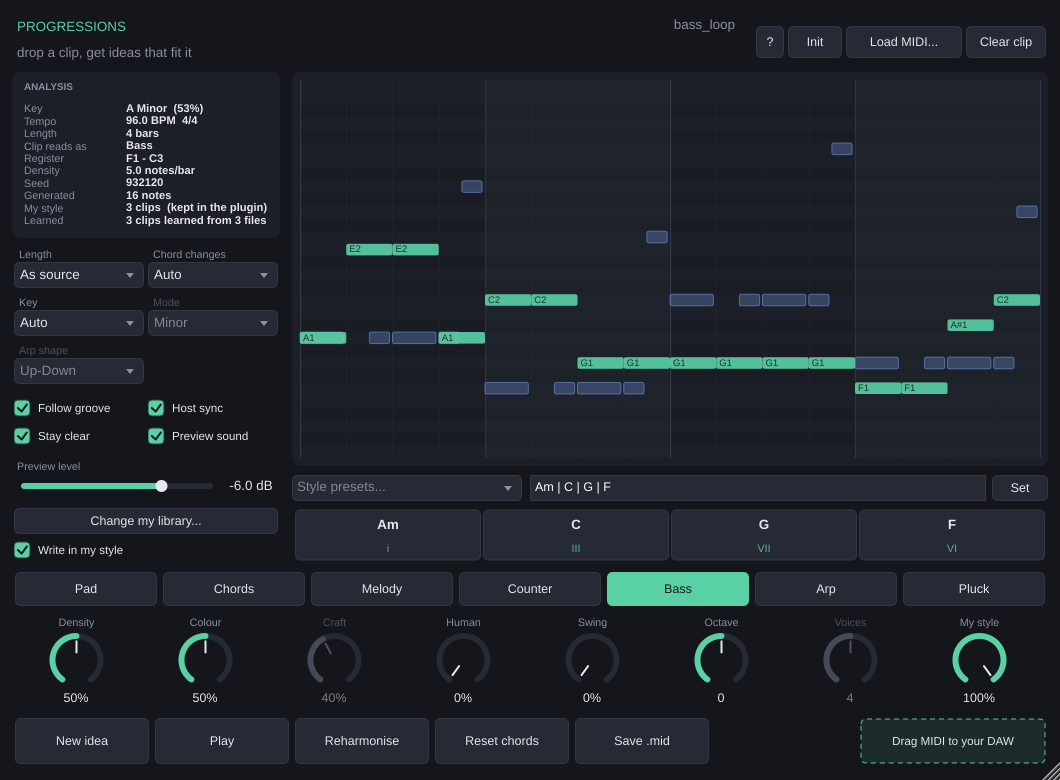
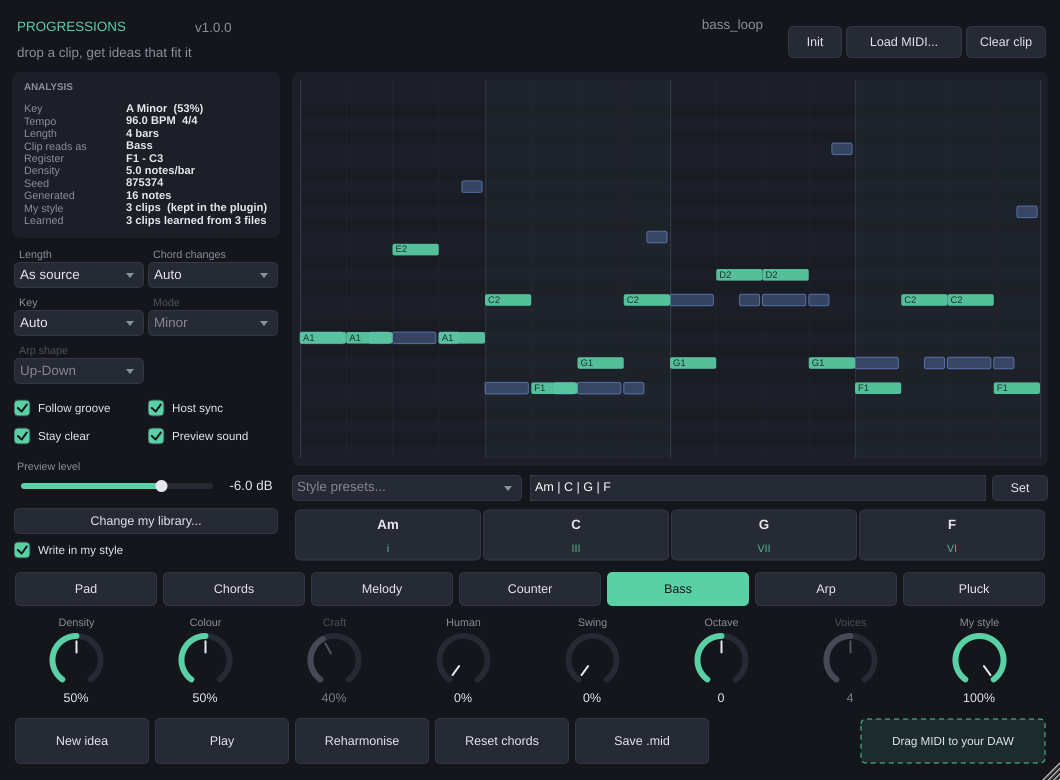
Twelve genres of preset, a discreet about, and a click that works
The about button did nothing: reverting a temporary "show it on startup"
experiment flipped the setVisible inside the click handler too, so it hid an
already hidden panel. The button is gone entirely - the version now sits
beside the name in the header, small and dim, and the header block opens the
card. The smoke test clicks it, because a handler that quietly does nothing
is exactly the kind of break nothing else notices.

Init now takes the preset box with it. It is the only control that is not an
automatable parameter, so nothing was resetting it: after Init the box still
named a preset that was no longer in force. It clears whenever no written
progression is in force, which covers Reset chords too.

Sixteen presets across seven new genres, all electronic: Progressive House,
Melodic Techno, Techno, Trance, Drum & Bass, UK Garage and Downtempo. Each
one is a shape the genre actually uses rather than a rotation of the four
chords already there - a Phrygian flat second, a minor two-five over harmonic
minor, dominant sevenths on the Dorian four, major sevenths a fourth apart.

A single-chord techno preset was written and dropped: the preset length comes
from the chord count, so it produced a one-bar loop.

Claude-Session: https://claude.ai/code/session_01TdYkkwWqjXnyGki7XjySvK

diff --git a/core/src/Presets.cpp b/core/src/Presets.cpp
@@ -50,6 +50,52 @@ const std::vector<ProgressionPreset>& progressionPresets()
         { "afro-dorian", "Dorian groove", "Afro House", "i7 | IV | i7 | VII", ScaleType::Dorian,
           "Modal and repetitive - let the percussion carry it." },
 
+        // ---- Progressive House -------------------------------------------------
+        { "prog-plateau", "Long plateau", "Progressive House", "i | VII | III | VI", ScaleType::NaturalMinor,
+          "Rotates without ever cadencing. Give each chord two bars and let it ride." },
+        { "prog-suspended", "Suspended build", "Progressive House", "isus4 | i | VIIsus4 | VII", ScaleType::NaturalMinor,
+          "Each suspension resolves late; that delay is where the lift comes from." },
+        { "prog-lydian", "Lydian float", "Progressive House", "Imaj7 | II7 | Imaj7 | vi7", ScaleType::Lydian,
+          "The raised fourth keeps it weightless - good under a long, slow arpeggio." },
+
+        // ---- Melodic Techno ------------------------------------------------------
+        { "mtechno-two", "Two-chord dark", "Melodic Techno", "i | VI", ScaleType::NaturalMinor,
+          "Two chords, eight bars each. The tension is in the arrangement, not the harmony." },
+        { "mtechno-phrygian", "Phrygian pull", "Melodic Techno", "i | II", ScaleType::Phrygian,
+          "The flat second is the whole sound. Keep the bass nailed to the tonic." },
+        { "mtechno-held", "Held suspension", "Melodic Techno", "isus2 | isus4", ScaleType::NaturalMinor,
+          "One root, two colours - no third anywhere, so nothing commits." },
+
+        // ---- Techno --------------------------------------------------------------
+        { "techno-roll", "Rolling minor", "Techno", "i | VII | i | VI", ScaleType::NaturalMinor,
+          "Comes home every other bar, so it hypnotises instead of going anywhere." },
+        { "techno-stab", "Minor stab", "Techno", "i | iv", ScaleType::NaturalMinor,
+          "Two stabs, no resolution. Short notes, hard gate." },
+
+        // ---- Trance ---------------------------------------------------------------
+        { "trance-uplift", "Uplifting four", "Trance", "vi | IV | I | V", ScaleType::Major,
+          "Minor start, major landing - the hands-in-the-air shape." },
+        { "trance-emotional", "Emotional roll", "Trance", "VI | VII | III | i", ScaleType::NaturalMinor,
+          "Three steps up and then home. Works with the chords rolling in eighths." },
+
+        // ---- Drum & Bass -----------------------------------------------------------
+        { "dnb-liquid", "Liquid sevenths", "Drum & Bass", "i7 | VImaj7 | IIImaj7 | VII7", ScaleType::NaturalMinor,
+          "The diatonic minor sevenths in a row - warm without going jazzy." },
+        { "dnb-jazzy", "Minor two-five", "Drum & Bass", "iim7b5 | V7 | i7 | VImaj7", ScaleType::HarmonicMinor,
+          "The minor turnaround liquid leans on; the V wants a raised third." },
+
+        // ---- UK Garage --------------------------------------------------------------
+        { "garage-two", "Two-step", "UK Garage", "i9 | IV7", ScaleType::Dorian,
+          "Ninth on the tonic, dominant on the four. Swing the sixteenths." },
+        { "garage-soul", "Soulful garage", "UK Garage", "Imaj7 | vi9 | ii9 | V7", ScaleType::Major,
+          "Chopped vocal harmony; the ninths keep it from sounding like a jazz standard." },
+
+        // ---- Downtempo ----------------------------------------------------------------
+        { "ambient-drift", "Slow drift", "Downtempo", "Imaj7 | IVmaj7", ScaleType::Lydian,
+          "Two major sevenths a fourth apart. Four bars each, no hurry." },
+        { "ambient-open", "Open suspension", "Downtempo", "isus2 | VIIsus2", ScaleType::NaturalMinor,
+          "No thirds, so it reads as texture rather than harmony." },
+
         // ---- Classics ----------------------------------------------------------
         { "pop-four", "Four chords", "Classic", "I | V | vi | IV", ScaleType::Major,
           "The one everybody knows." },

diff --git a/plugin/Source/PluginEditor.cpp b/plugin/Source/PluginEditor.cpp
@@ -77,7 +77,17 @@ ProgressionsEditor::ProgressionsEditor(ProgressionsProcessor& p)
     titleLabel.setText("PROGRESSIONS", juce::dontSendNotification);
     titleLabel.setFont(juce::FontOptions(22.0f, juce::Font::bold));
     titleLabel.setColour(juce::Label::textColourId, accent);
+    titleLabel.setInterceptsMouseClicks(false, false);
     addAndMakeVisible(titleLabel);
+
+    // Discreet: the version sits beside the name, and the whole block is the
+    // way into the about card. No extra button in the header for it.
+    versionLabel.setText("v" JucePlugin_VersionString, juce::dontSendNotification);
+    versionLabel.setFont(juce::FontOptions(10.0f));
+    versionLabel.setColour(juce::Label::textColourId, textDim);
+    versionLabel.setJustificationType(juce::Justification::bottomLeft);
+    versionLabel.setInterceptsMouseClicks(false, false);
+    addAndMakeVisible(versionLabel);
 
     taglineLabel.setText("drop a clip, get ideas that fit it", juce::dontSendNotification);
     taglineLabel.setFont(juce::FontOptions(12.0f));
@@ -102,14 +112,6 @@ ProgressionsEditor::ProgressionsEditor(ProgressionsProcessor& p)
                           "not to this patch");
     initButton.onClick = [this] { processor.initialise(); };
     addAndMakeVisible(initButton);
-
-    aboutButton.setTooltip("About Progressions");
-    aboutButton.onClick = [this]
-    {
-        aboutPanel.setVisible(false);
-        aboutPanel.toFront(true);
-    };
-    addAndMakeVisible(aboutButton);
 
     aboutPanel.setVisible(false);
     addChildComponent(aboutPanel);
@@ -433,6 +435,12 @@ void ProgressionsEditor::refresh()
 
     refreshProgressionField();
 
+    // The preset box is the only control that is not a parameter, so nothing
+    // resets it for us. When no written progression is in force - after Init,
+    // or after Reset chords - it must stop claiming one is.
+    if (! processor.hasWrittenProgression() && presetBox.getSelectedId() != 0)
+        presetBox.setSelectedId(0, juce::dontSendNotification);
+
     if (! keyRootBox.hasKeyboardFocus(true))
     {
         const int wanted = processor.isKeyForced() ? processor.forcedTonic() + 2 : 1;
@@ -529,6 +537,15 @@ void ProgressionsEditor::showLoadDialog()
                              if (file.existsAsFile())
                                  processor.loadMidiFile(file);
                          });
+}
+
+void ProgressionsEditor::mouseDown(const juce::MouseEvent& event)
+{
+    if (aboutHotspot.contains(event.getPosition()))
+    {
+        aboutPanel.setVisible(true);
+        aboutPanel.toFront(false);
+    }
 }
 
 void ProgressionsEditor::showStyleMenu()
@@ -688,15 +705,17 @@ void ProgressionsEditor::resized()
     // ---- Header --------------------------------------------------------------
     auto header = area.removeFromTop(52);
     {
-        auto buttons = header.removeFromRight(300);
+        auto buttons = header.removeFromRight(272);
         buttons.removeFromTop(8);
         clearButton.setBounds(buttons.removeFromRight(84).reduced(2, 6));
         loadButton.setBounds(buttons.removeFromRight(120).reduced(2, 6));
         initButton.setBounds(buttons.removeFromRight(58).reduced(2, 6));
-        aboutButton.setBounds(buttons.removeFromRight(32).reduced(2, 6));
 
-        auto titleArea = header.removeFromLeft(220);
-        titleLabel.setBounds(titleArea.removeFromTop(30));
+        auto titleArea = header.removeFromLeft(250);
+        aboutHotspot = titleArea;
+        auto titleRow = titleArea.removeFromTop(30);
+        titleLabel.setBounds(titleRow.removeFromLeft(178));
+        versionLabel.setBounds(titleRow.withTrimmedBottom(6));
         taglineLabel.setBounds(titleArea);
 
         sourceLabel.setBounds(header.removeFromTop(26).reduced(8, 0));

diff --git a/plugin/tests/PluginSmokeTest.cpp b/plugin/tests/PluginSmokeTest.cpp
@@ -398,6 +398,32 @@ int main(int argc, char** argv)
                 check(png.writeImageToStream(image, *stream), "editor renders to a PNG");
                 std::cout << "  wrote " << output.getFullPathName() << "\n";
             }
+
+            // Clicking the name opens the about card. Checked because the
+            // handler is easy to break in a way nothing else notices.
+            auto* progressionsEditor = dynamic_cast<ProgressionsEditor*>(editor.get());
+            check(progressionsEditor != nullptr, "the editor is ours");
+            if (progressionsEditor != nullptr)
+            {
+                check(! progressionsEditor->isAboutVisible(), "about starts hidden");
+
+                const auto click = [progressionsEditor](juce::Point<float> where)
+                {
+                    const juce::MouseEvent event(juce::Desktop::getInstance().getMainMouseSource(),
+                                                 where, juce::ModifierKeys(), 1.0f, 0.0f, 0.0f, 0.0f, 0.0f,
+                                                 progressionsEditor, progressionsEditor,
+                                                 juce::Time::getCurrentTime(), where,
+                                                 juce::Time::getCurrentTime(), 1, false);
+                    progressionsEditor->mouseDown(event);
+                };
+
+                click({ 60.0f, 26.0f });
+                check(progressionsEditor->isAboutVisible(), "clicking the name opens it");
+
+                click({ 600.0f, 400.0f });
+                check(progressionsEditor->isAboutVisible(),
+                      "and a click elsewhere in the editor does not close it behind the overlay");
+            }
         }
     }
 
@@ -423,6 +449,7 @@ int main(int argc, char** argv)
         // The library is the installation's, not the patch's: rebuilding it
         // costs minutes, so Init must never take it away.
         check(processor.styleClipCount() == clipsBefore, "but keeps the learned library");
+        check(processor.getProgressionText().isEmpty(), "and leaves no progression to show");
         check(processor.hasStyleModel() == (clipsBefore > 0), "which is still loaded");
     }
 

diff --git a/plugin/Source/PluginEditor.h b/plugin/Source/PluginEditor.h
@@ -21,6 +21,11 @@ public:
 
     void paint(juce::Graphics&) override;
     void resized() override;
+    void mouseDown(const juce::MouseEvent&) override;
+
+    /** For the smoke test: a click handler that quietly does nothing is not
+        something a headless build should be able to ship. */
+    bool isAboutVisible() const { return aboutPanel.isVisible(); }
 
     bool isInterestedInFileDrag(const juce::StringArray& files) override;
     void fileDragEnter(const juce::StringArray&, int, int) override;
@@ -55,7 +60,12 @@ private:
 
     juce::Label titleLabel, taglineLabel, sourceLabel, statusLabel;
     juce::TextButton loadButton { "Load MIDI..." }, clearButton { "Clear clip" };
-    juce::TextButton initButton { "Init" }, aboutButton { "?" };
+    juce::TextButton initButton { "Init" };
+    juce::Label versionLabel;
+    /** The header block that opens the about card - kept from resized() so
+        mouseDown can hit-test it without asking the labels, which do not take
+        clicks. */
+    juce::Rectangle<int> aboutHotspot;
     AboutPanel aboutPanel;
 
     PianoRollComponent pianoRoll;

diff --git a/README.md b/README.md
@@ -6,7 +6,9 @@ musicais a partir da sua própria harmonia. Três caminhos, todos levando ao mes
 1. **Solta um MIDI** — baixo, pad, lead, pluck — e o plugin descobre a
    progressão que está por trás dele.
 2. **Digita a progressão** que você quer: `Am | F | C | G` ou `i VI III VII`.
-3. **Escolhe um preset** de House, Deep House, Melodic House ou Afro House.
+3. **Escolhe um preset** — 36 progressões em 12 gêneros: House, Deep House,
+   Melodic House, Afro House, Progressive House, Melodic Techno, Techno, Trance,
+   Drum & Bass, UK Garage, Downtempo e os clássicos.
 
 Com a harmonia definida, ele escreve pads, melodias, contracantos, baixos,
 arpejos e plucks em cima dela — e você arrasta o resultado direto para o DAW.
